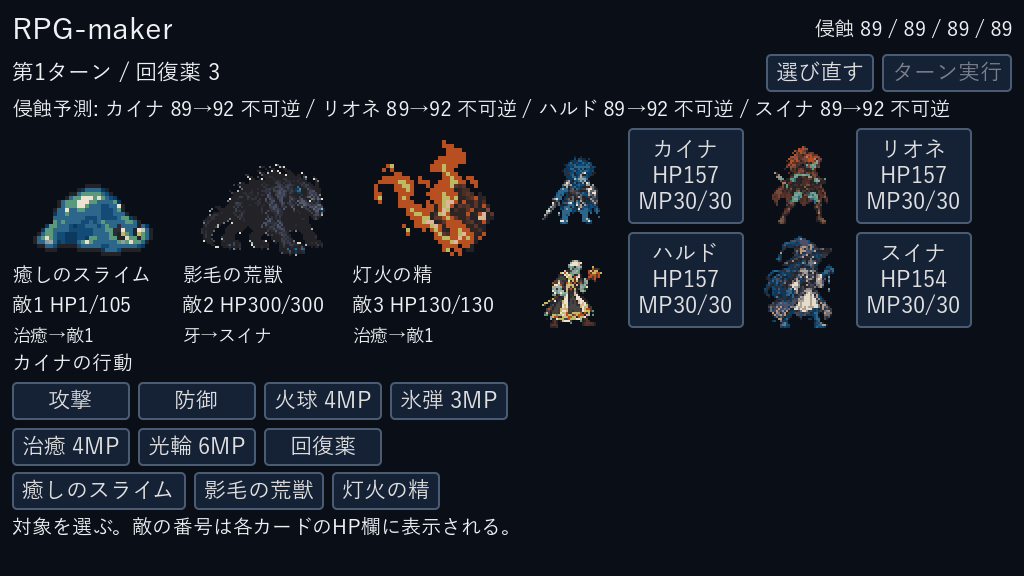
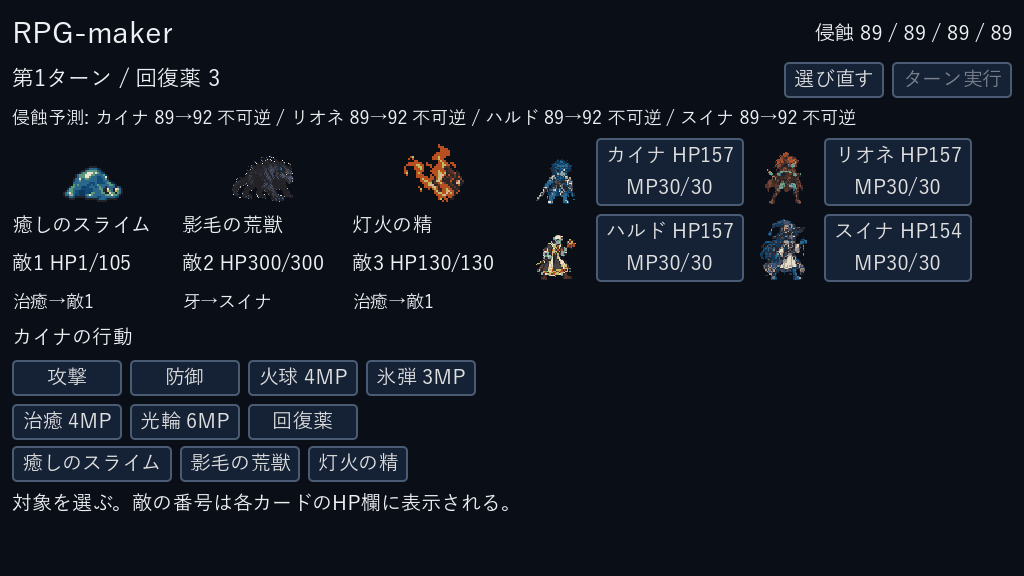
フォント寸法差があっても戦闘画面の操作とログを収める

Changed region(s): [[0.0, 0.0312, 1.0, 0.5938], [0.0, 0.25, 0.5, 0.9375], [0.3438, 0.25, 0.5, 0.5938]]

diff --git a/docs/nonhuman-work-v1.md b/docs/nonhuman-work-v1.md
@@ -26,6 +26,8 @@
 
 職業変更の基礎API `change_job` は状態適用用として従来の互換性を保持し、通常のゲーム操作は条件検証を行う `choose_job` を使う。通常の画面で未解放職を選べないこと、条件成立後に選べること、侵蝕低下・保存後も解放を失わないことを追加検査した。テスト中だけ制限を外す分岐はない。従来セーブで既に使っている職やJPを得た職も取り上げない。
 
+最初のCI実行では、Linuxのフォント寸法で戦闘ログ・対象ボタンが画面外へ出るケースを検出した。検査を変更して許容するのではなく、戦闘の状態カードを2行にまとめ、3敵時の画像枠・ボタン余白・予測欄を調整した。`check_v1_finish.gd -- --expanded-font`でも行高を大きくした条件を確認できる。表示情報、内部解像度、画像の元ファイルとフレーム数は維持する。
+
 常時特性の具体的効果は既存の能力値成長を使う提案である。効果名だけを表示して未実装の特殊能力を取得したようには扱わず、表示される増分と実際のstat_growthの一致、転職後と保存後の保持を検査する。
 
 ## 試遊記録の保存と判定
